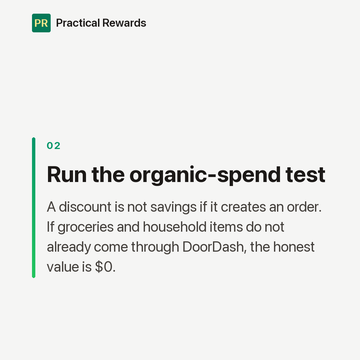
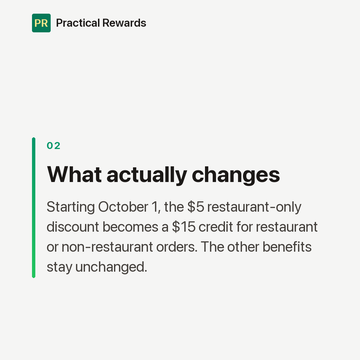
Social copy: lead with what changed, never present existing benefits as new

Changed region(s): [[0.1222, 0.55, 0.8861, 0.7639], [0.1222, 0.4583, 0.9167, 0.5194]]

diff --git a/social/sapphire-reserve-doordash-credits-honest-math/caption.md b/social/sapphire-reserve-doordash-credits-honest-math/caption.md
@@ -1,11 +1,11 @@
-Most of this DoorDash benefit is for paper towels and snacks, not dinner.
+Most of this DoorDash value is not takeout money.
 
-Starting October 1, the Sapphire Reserve carries $35 in monthly order benefits: a flexible $15 credit and $20 limited to non-restaurant orders. Across 12 months, that is $420 in face value. DashPass remains separate.
+Starting October 1, the flexible monthly credit grows from $5 to $15 and works on restaurant or non-restaurant orders. The two $10 non-restaurant discounts stay unchanged, while DashPass remains separate from the $35 monthly total.
 
-The catch is organic spend. The non-restaurant discounts expire monthly, and the $15 credit can still pull a larger order along with it—the pickup minimum is $20. A benefit that creates spending or a recurring chore is not worth its printed value.
+The catch is fit. The full $35 works only for households already ordering groceries or convenience items through DoorDash most months. Restaurant-only users can count up to $15, plus whatever DashPass genuinely saves on orders they would place anyway. A $20 pickup minimum can also make a small credit pull a larger order behind it.
 
-Count purchases and savings already in the budget. If DoorDash is not already part of the routine, value the order benefits at $0 and ignore the coupon book.
+Count purchases and savings already in the budget, then ignore the rest of the coupon book.
 
 Full breakdown on practicalrewards.com (link in bio).
 
-#CreditCards #CreditCardRewards #TravelRewards #PointsAndMiles #PersonalFinance #SapphireReserve #DoorDash #Chase
+#CreditCards #CreditCardRewards #TravelRewards #PointsAndMiles #PersonalFinance #SapphireReserve #DoorDash #DashPass

diff --git a/tools/prompts/social.md b/tools/prompts/social.md
@@ -6,6 +6,7 @@ Hard rules:
 - Follow the inlined house style: dry, numerate, blunt verdicts, no hype, no exclamation points, "we" or impersonal voice, never first-person singular.
 - Every number, dollar figure, percentage, multiplier, points figure, or date you write must already appear in the article with the same value. Do not introduce any number that is not in the article. Do not round, convert, or extrapolate.
 - Name only cards, issuers, and brands the article names.
+- When the article is about a change, say exactly what changed (old value → new value, when) and treat everything else as already existing. Never present a pre-existing benefit as if it starts on the change date; a reader who already holds the card must not think the whole package is new.
 - Dates read like a person talking today: write "October 1" or "starting October 1", never "October 1, 2026" or "in 2026". Include a year only when the article is contrasting two different years.
 - No affiliate language, no "apply now", no urgency, no emoji, no hashtags or URLs inside slides, verdict, or caption (hashtags and the link line are appended automatically).
 - Do not repeat the hero stat card's label verbatim, and do not restate the math panel's rows on a text slide.
